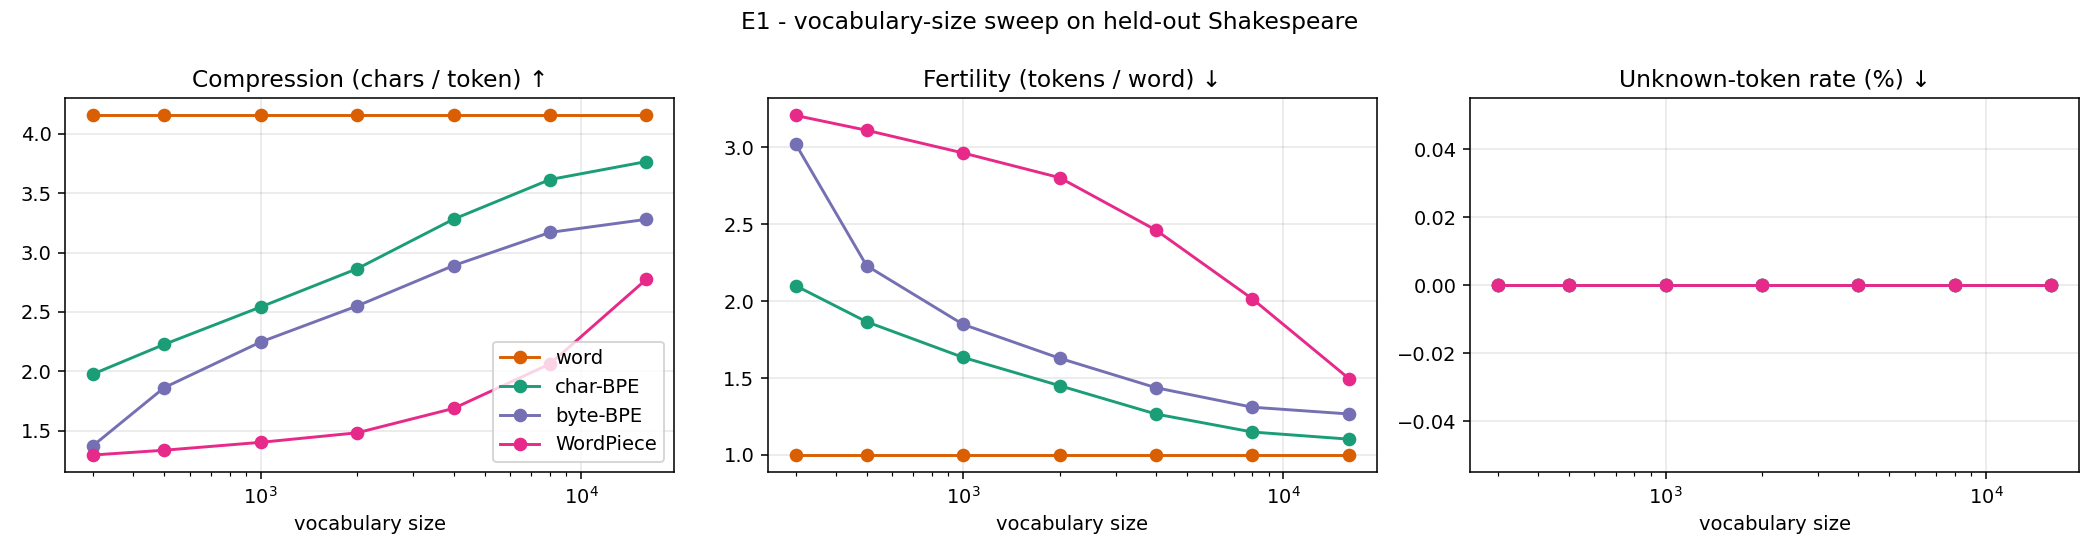
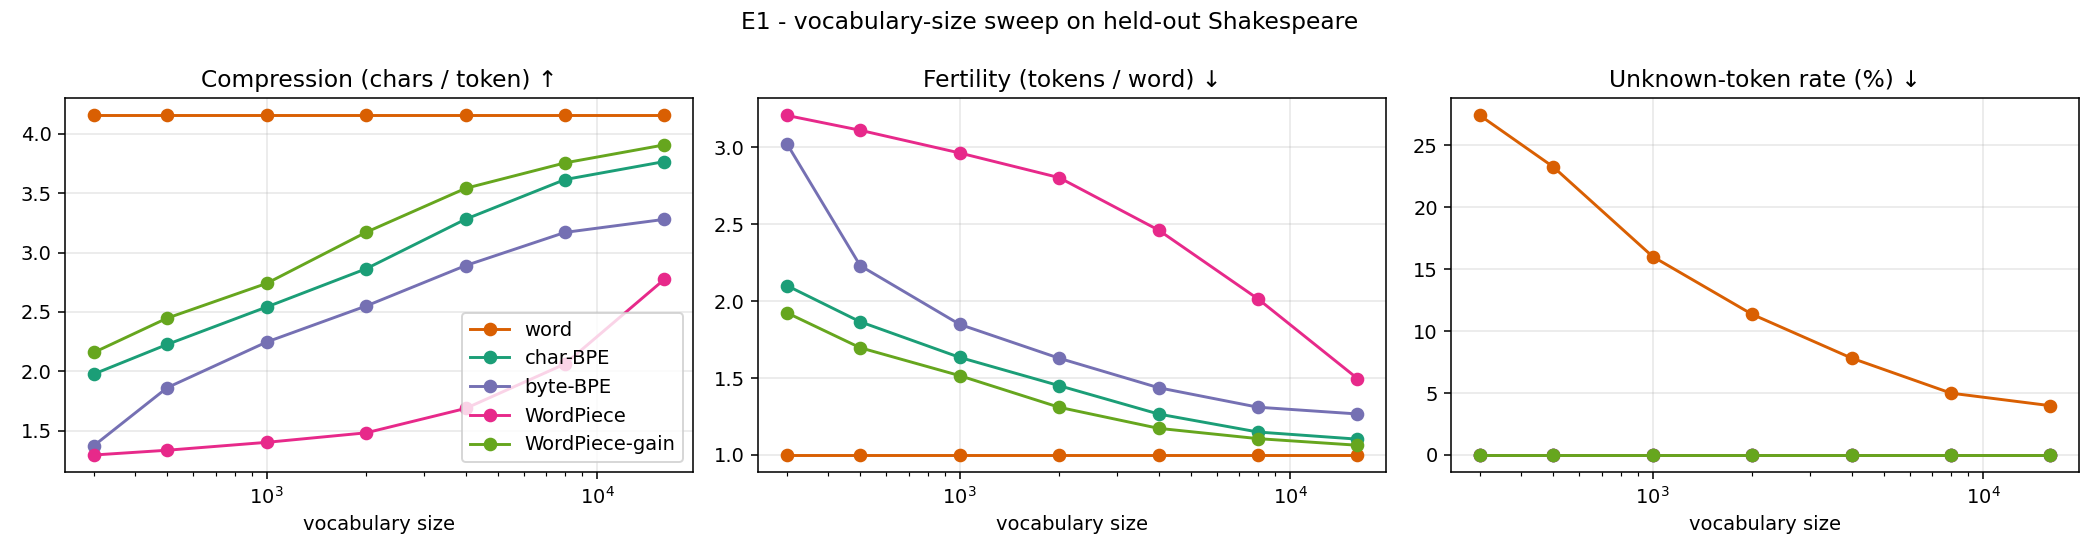
feat(experiments): reproducible vocab sweep, head-to-head, OOV segmentation and domain-shift studies

diff --git a/experiments/run_experiments.py b/experiments/run_experiments.py
@@ -86,8 +86,11 @@ def main() -> None:
     (bpe_cls, t2) = timed(BPETokenizer.train, train, max_v, False)
     (wp, t3) = timed(WordPieceTokenizer.train, train, max_v)
     (wordtok, t4) = timed(WordTokenizer.train, train, max_v)
-    print(f"  train time  byte-BPE {t1:.1f}s  char-BPE {t2:.1f}s  WordPiece {t3:.1f}s  word {t4:.2f}s")
-    summary["train_seconds_at_max_vocab"] = {"byte_bpe": t1, "char_bpe": t2, "wordpiece": t3, "word": t4}
+    (wpg, t5) = timed(WordPieceTokenizer.train, train, max_v, score="gain")
+    print(f"  train time  byte-BPE {t1:.1f}s  char-BPE {t2:.1f}s  WordPiece {t3:.1f}s  "
+          f"WordPiece-gain {t5:.1f}s  word {t4:.2f}s")
+    summary["train_seconds_at_max_vocab"] = {"byte_bpe": t1, "char_bpe": t2, "wordpiece": t3,
+                                             "wordpiece_gain": t5, "word": t4}
 
     def word_at(v):  # word vocab nested by frequency rank as well
         return WordTokenizer(
@@ -99,6 +102,7 @@ def main() -> None:
         "char-BPE": bpe_cls.truncated,
         "byte-BPE": bpe_byte.truncated,
         "WordPiece": wp.truncated,
+        "WordPiece-gain": wpg.truncated,
     }
     rows = []
     for name, make in families.items():
@@ -115,7 +119,8 @@ def main() -> None:
     print(f"E2 head-to-head at V={FIXED}")
     e2 = []
     for name, make, secs in [("word", word_at, t4), ("char-BPE", bpe_cls.truncated, None),
-                             ("byte-BPE", bpe_byte.truncated, None), ("WordPiece", wp.truncated, None)]:
+                             ("byte-BPE", bpe_byte.truncated, None), ("WordPiece", wp.truncated, None),
+                             ("WordPiece-gain", wpg.truncated, None)]:
         tok = make(FIXED)
         # honest training time for THIS vocab size
         if name == "char-BPE":
@@ -124,6 +129,8 @@ def main() -> None:
             _, secs = timed(BPETokenizer.train, train, FIXED, True)
         elif name == "WordPiece":
             _, secs = timed(WordPieceTokenizer.train, train, FIXED)
+        elif name == "WordPiece-gain":
+            _, secs = timed(WordPieceTokenizer.train, train, FIXED, score="gain")
         r = evaluate(tok, test).as_dict()
         e2.append({"tokenizer": name, "train_seconds": round(secs, 2), **r})
     write_csv(OUT / "e2_comparison.csv", e2)
@@ -131,7 +138,8 @@ def main() -> None:
 
     # ---------------- E3: segmentation of unseen words ---------------------
     models = {"word": word_at(FIXED), "char-BPE": bpe_cls.truncated(FIXED),
-              "byte-BPE": bpe_byte.truncated(FIXED), "WordPiece": wp.truncated(FIXED)}
+              "byte-BPE": bpe_byte.truncated(FIXED), "WordPiece": wp.truncated(FIXED),
+              "WordPiece-gain": wpg.truncated(FIXED)}
     e3 = {w: {n: m.tokenize(" " + w if n == "byte-BPE" else w) for n, m in models.items()}
           for w in UNSEEN_WORDS}
     (OUT / "e3_segmentations.json").write_text(json.dumps(e3, ensure_ascii=False, indent=1))
@@ -145,7 +153,7 @@ def main() -> None:
     if (RAW / "gpt2_encoder.json").exists():
         ref = load_gpt2(RAW / "gpt2_encoder.json", RAW / "gpt2_vocab.bpe")
     for dom, text in probes.items():
-        for name in ("word", "char-BPE", "byte-BPE", "WordPiece"):
+        for name in models:
             r = evaluate(models[name], text)
             e4.append({"domain": dom, "tokenizer": f"{name} (V={FIXED}, Shakespeare-trained)",
                        "bytes_per_token": round(r.bytes_per_token, 3), "unk_rate": round(r.unk_rate, 4)})
@@ -177,7 +185,8 @@ def make_figures(s: dict) -> None:
     except ImportError:
         print("matplotlib missing: skipping figures")
         return
-    colors = {"word": "#d95f02", "char-BPE": "#1b9e77", "byte-BPE": "#7570b3", "WordPiece": "#e7298a"}
+    colors = {"word": "#d95f02", "char-BPE": "#1b9e77", "byte-BPE": "#7570b3", "WordPiece": "#e7298a",
+              "WordPiece-gain": "#66a61e"}
     rows = s["e1"]
 
     def series(name, key):
